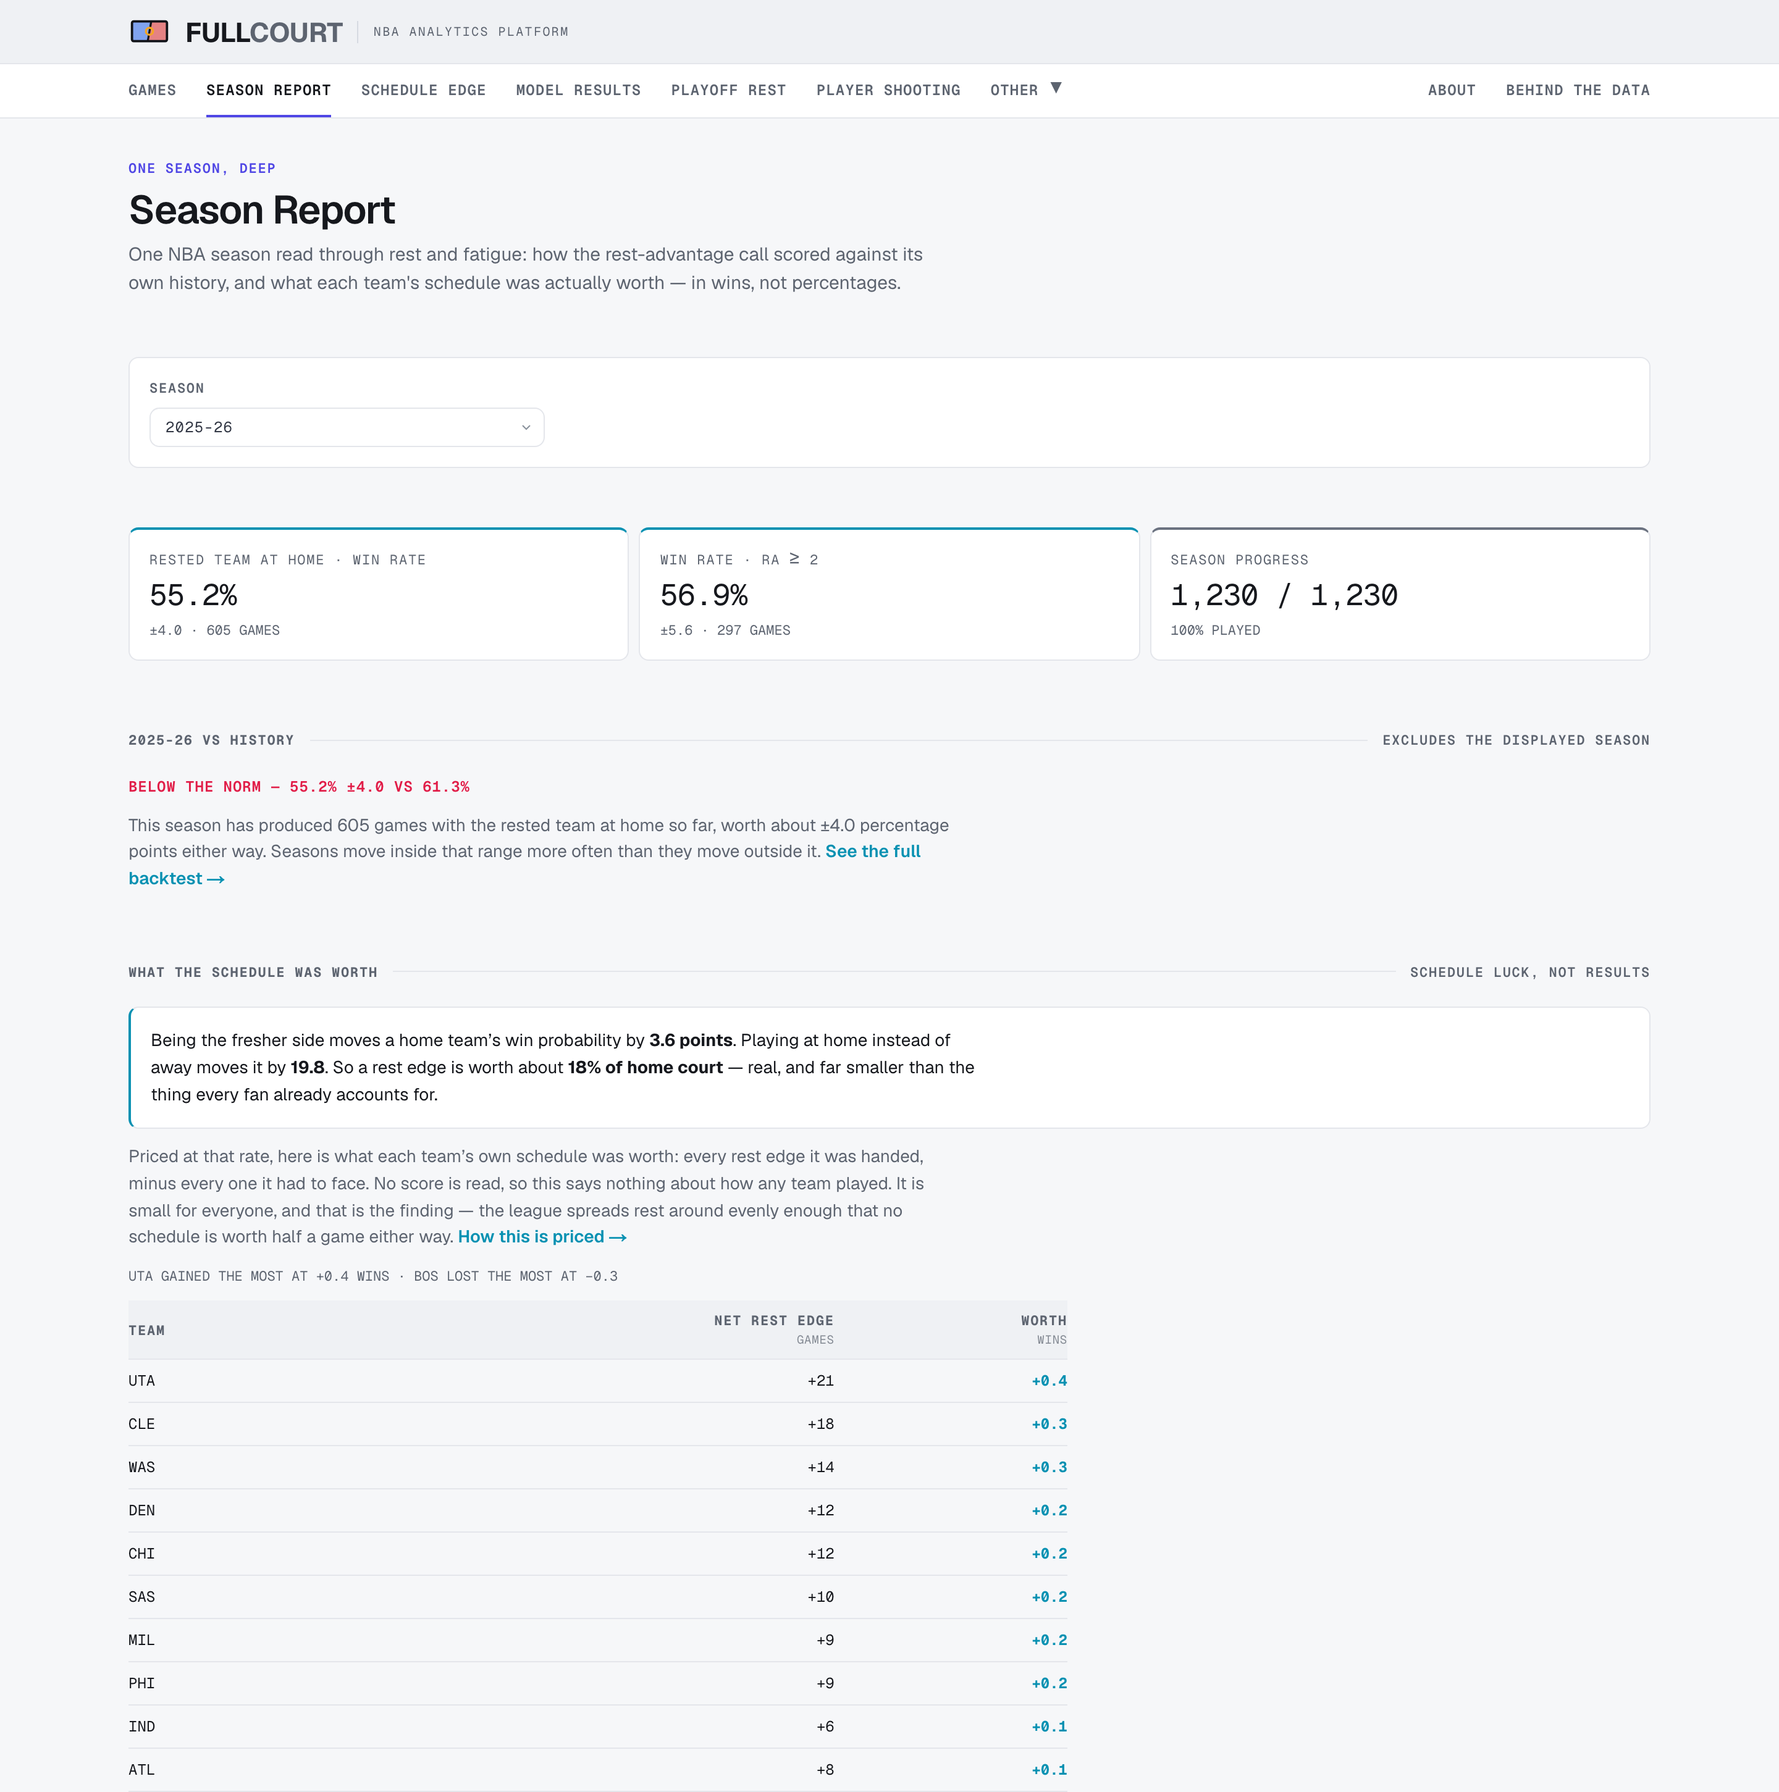
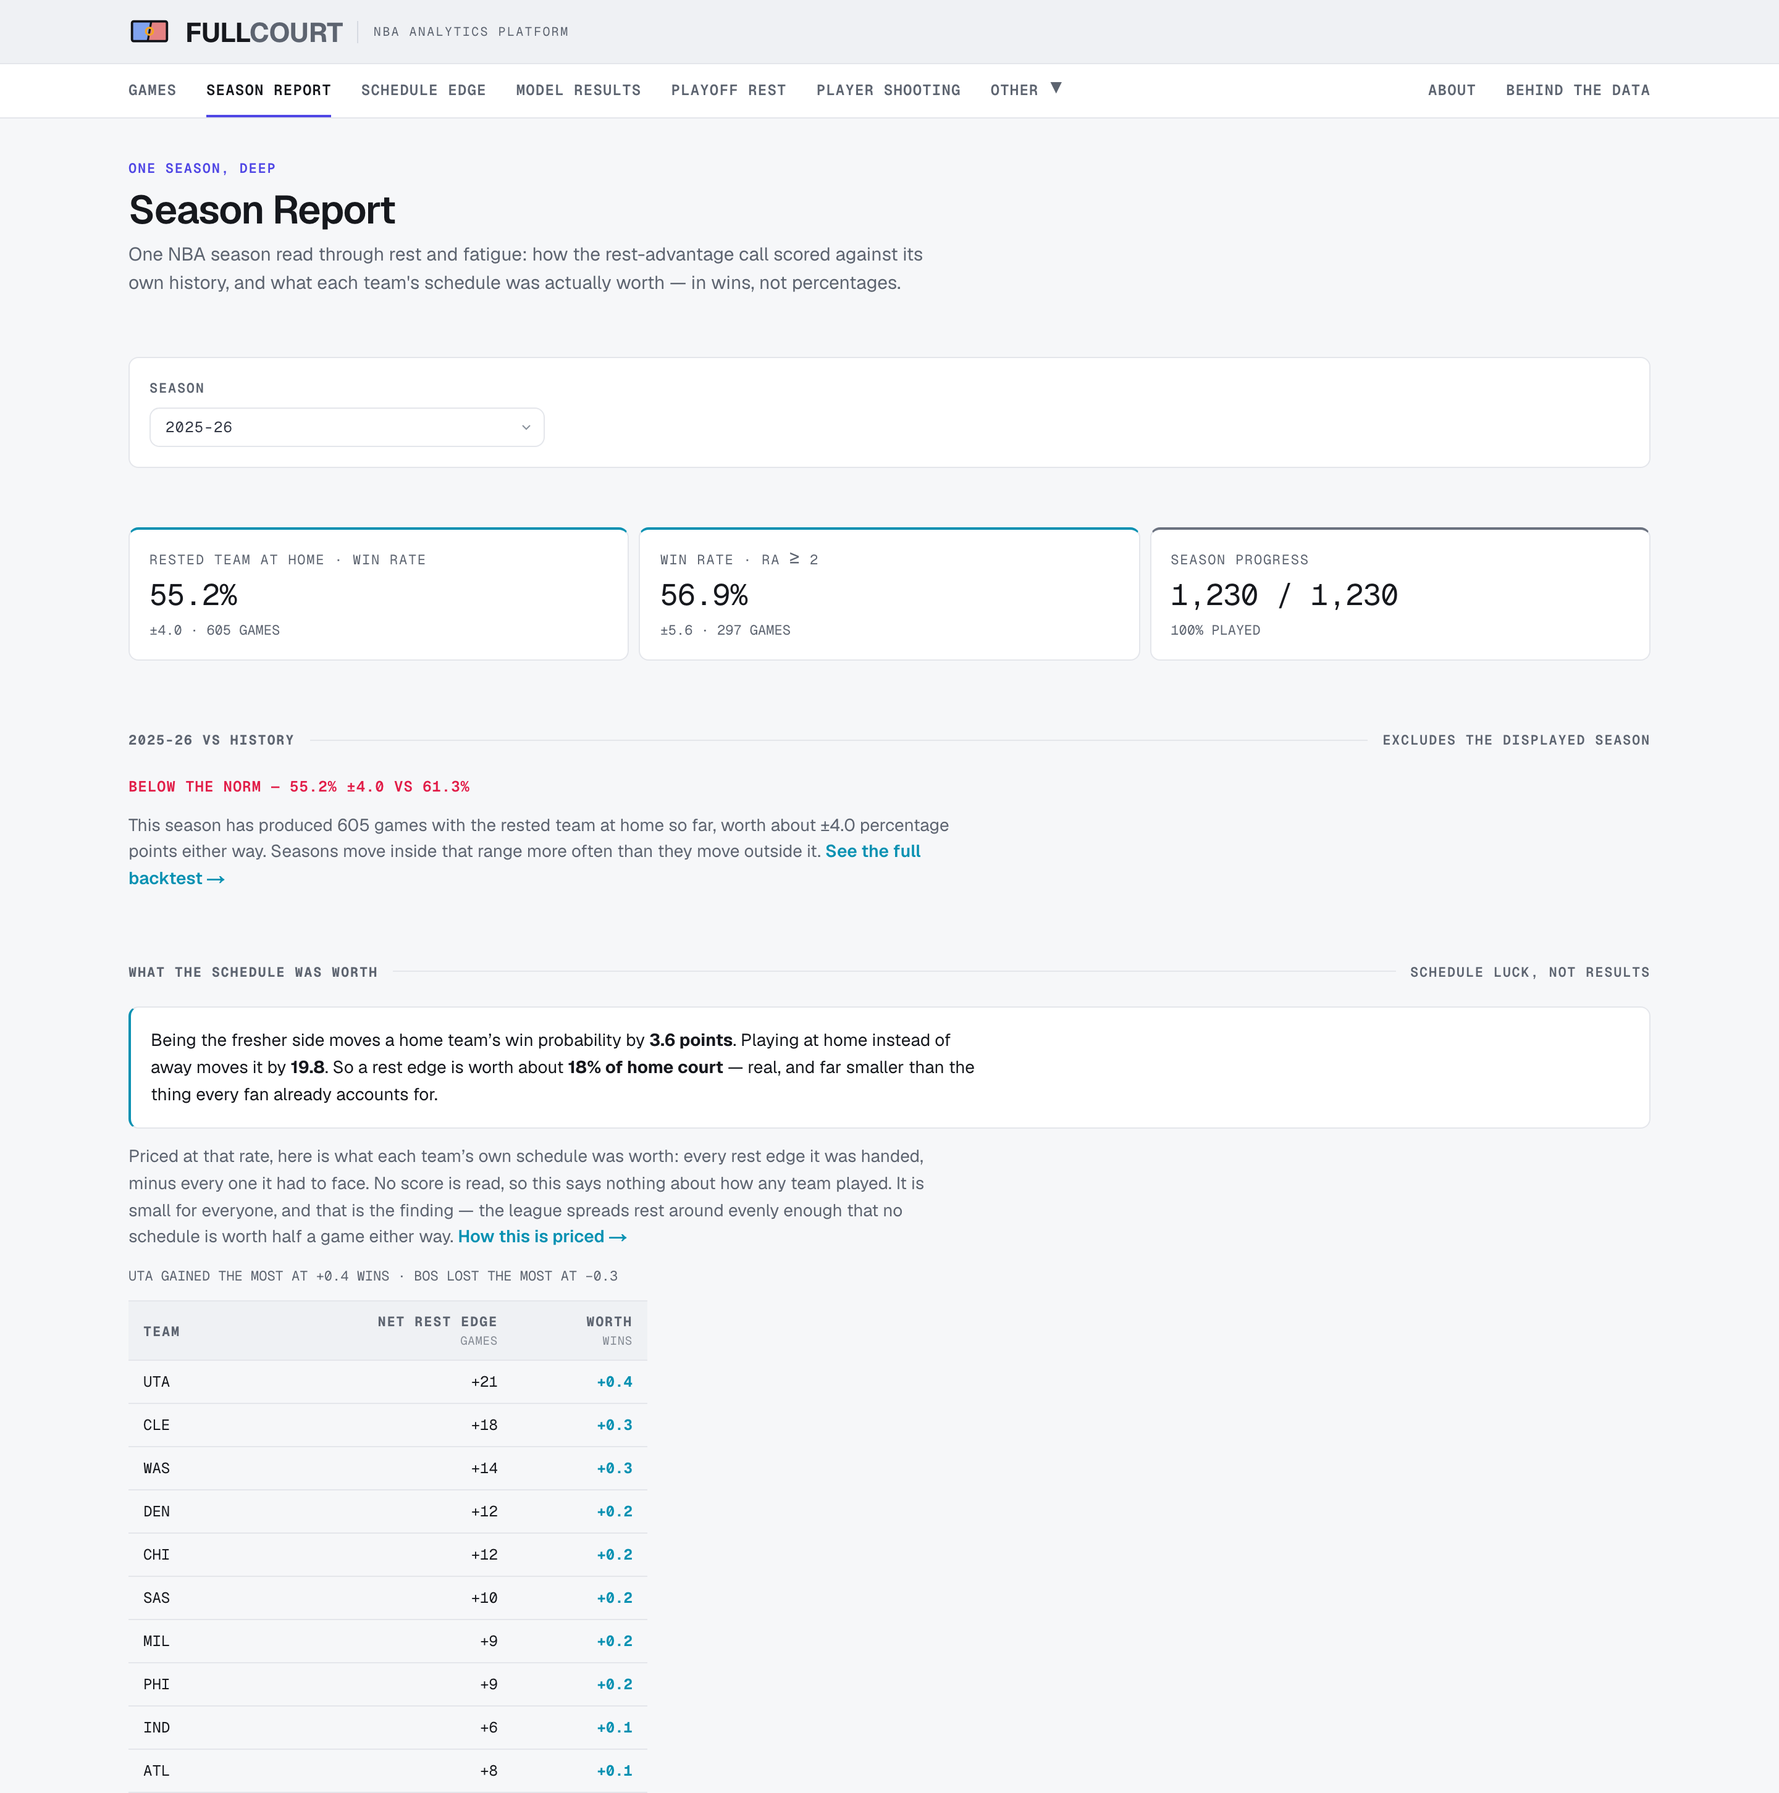
fix: give tables back their own inset, and stop stretching the narrow ones
Three changes to the same complaint — the season report's table was not readable.

Revert the edge-cells-pad-to-zero rule from earlier today. The idea was that a
table's first column should land on whatever rail its container sits on. That
was the wrong model of what a table is: `termThStyle` paints a `--term-surface-2`
header band and 20 of the app's 21 tables use it, so zeroing the inset put the
first column's text hard against a filled edge. Text touching a fill reads as
broken however exactly it lines up with the heading above. A table is a box —
the box sits on the page rail, its cells sit on the box's own inner rail. The
old rule applied the right law to the wrong element. 12 a side now, every cell.

Drop `w-full` from the four tables that also cap at TERM_NUMERIC_TABLE_MAX_WIDTH.
Together those mean "always exactly 760", which is not what a cap is for. The
season report's three-column WHAT THE SCHEDULE WAS WORTH proves it: its middle
column ran 390px wide to hold "+21", so the eye crossed 528px of nothing to get
from UTA to its own number. Measured after: 420px wide, columns 96/215/109, and
it reads as one scan. The eight-column table goes 760 → 596 and the five-column
760 → 520; both were stretched too.

Close every table at the top. The last row's own borderBottom is the bottom
edge, so the first header row takes a matching border-top — the band's tint was
doing that job alone, and a fill is not an edge.
[…]

diff --git a/e2e/alignment-law.spec.ts b/e2e/alignment-law.spec.ts
@@ -63,28 +63,65 @@ test.describe("The outer rail is one vertical line", () => {
   }
 });
 
-test.describe("A table's first column starts where its container does", () => {
+/**
+ * A table is a box, so its cells sit on the box's inner rail — every one of them, edges
+ * included. The edge cells padded to zero for part of 2026-08-11 so a first column would land
+ * on the page gutter; `termThStyle` paints the header band, so that put the column's text hard
+ * against a fill. This asserts the revert, and it discriminates: it compares the first cell to
+ * an interior one rather than pinning a literal, so the rule survives a change to the value.
+ */
+test.describe("A table's cells sit on one inset, edges included", () => {
   for (const route of ["/season", "/analysis", "/shooting", "/behind-the-data/rest-advantage"]) {
-    test(`first column takes no inset of its own on ${route}`, async ({ page }) => {
+    test(`no edge cell pads differently from its neighbours on ${route}`, async ({ page }) => {
       await page.setViewportSize({ width: 1440, height: 900 });
       await page.goto(route, { waitUntil: "networkidle" });
 
-      const offsets = await page.evaluate(() => {
-        const out: { pad: string; tag: string }[] = [];
+      const rows = await page.evaluate(() => {
+        const out: { first: string; interior: string; last: string; n: number }[] = [];
         for (const table of document.querySelectorAll("table.fc-table")) {
-          const first = table.querySelector("thead th:first-child, tbody td:first-child");
-          if (!first) continue;
-          out.push({ pad: getComputedStyle(first).paddingLeft, tag: first.tagName });
+          // The widest header row, so a table with grouped headers is measured on the row
+          // that actually has an interior cell to compare against.
+          const headRows = Array.from(table.querySelectorAll("thead tr"));
+          const head = headRows.sort((a, b) => b.children.length - a.children.length)[0];
+          const cells = head ? Array.from(head.children) : [];
+          if (cells.length < 3) continue;
+          out.push({
+            first: getComputedStyle(cells[0]).paddingLeft,
+            interior: getComputedStyle(cells[1]).paddingLeft,
+            last: getComputedStyle(cells[cells.length - 1]).paddingRight,
+            n: cells.length,
+          });
         }
         return out;
       });
 
-      expect(offsets.length, `${route} rendered no .fc-table`).toBeGreaterThan(0);
-      for (const { pad, tag } of offsets) {
-        expect(pad, `${route}: a <${tag}> first cell pads ${pad} instead of 0px`).toBe("0px");
+      expect(rows.length, `${route} rendered no .fc-table with 3+ columns`).toBeGreaterThan(0);
+      for (const { first, interior, last, n } of rows) {
+        expect(first, `${route}: a ${n}-column table's first cell pads ${first}, interior ${interior}`).toBe(interior);
+        expect(last, `${route}: a ${n}-column table's last cell pads ${last}, interior ${interior}`).toBe(interior);
+        expect(first, `${route}: cells pad to zero — the edge-to-zero rule was reverted`).not.toBe("0px");
       }
     });
   }
+});
+
+/**
+ * `TERM_NUMERIC_TABLE_MAX_WIDTH` is a ceiling, not a target. With `w-full` beside it a
+ * three-column table still took the full 760, which ran the season report's middle column to
+ * 390px to hold `+21` — 528px of nothing between a team and its own number.
+ */
+test("a few-column numeric table sizes to its content, not to the cap", async ({ page }) => {
+  await page.setViewportSize({ width: 1440, height: 900 });
+  await page.goto("/season", { waitUntil: "networkidle" });
+
+  const worth = page.locator('[data-testid="schedule-value-extremes"] ~ div table.fc-table').first();
+  await expect(worth).toBeVisible();
+
+  const box = await worth.boundingBox();
+  expect(box).not.toBeNull();
+  // Its own `minWidth` is 420 and the shared cap is 760. Landing at the cap means `w-full`
+  // came back; landing at the floor means the columns are sized by their content.
+  expect(box!.width, `the three-column table is ${box!.width}px wide`).toBeLessThan(560);
 });
 
 test("expanding a /shooting player does not shift its row sideways", async ({ page }) => {

diff --git a/src/app/globals.css b/src/app/globals.css
@@ -249,30 +249,35 @@
 }
 
 /* ── Tables ──────────────────────────────────────────────────────
-   Cell padding lives here rather than in `termThStyle` / `termTdStyle` because the edge cells
-   need different treatment from the interior ones, and a style object has no way to say
-   "first child".
+   Cell padding lives here rather than in `termThStyle` / `termTdStyle` so all 21 tables in the
+   app pad identically without 21 call sites having to agree.
 
-   THE EDGE CELLS PAD TO ZERO. That is the whole rule, and it is what makes a table line up
-   with whatever sits above it: the first column's text starts exactly at its container's
-   content edge, so it lands on the page gutter when the table sits on the page column, and on
-   the card's inner rail when the table sits in a card — without either context needing to know
-   about the other. Cells used to pad 10px all round, which put every table's first column 10px
-   inside the heading that introduced it, in every context at once.
+   EVERY CELL PADS THE SAME, EDGES INCLUDED. The edge cells padded to zero for part of
+   2026-08-11, on the theory that a table's first column should land on whatever rail its
+   container sits on — the page gutter on a bare page, a card's inner rail inside a card.
+   Reverted the same day. It was the wrong model of what a table is: `termThStyle` paints a
+   `--term-surface-2` header band, and 20 of the 21 tables use it, so zeroing the inset put the
+   first column's text hard against a filled edge. Text touching a fill reads as broken however
+   exactly it lines up with the heading above, and the season report's team column was the
+   proof.
 
-   Interior columns pad 12 a side. Enough to read two right-aligned numeric columns as separate
-   measures; not so much that a ten-column table has to scroll for its whitespace.            */
+   A table is a BOX, not page content. The box sits on the page rail; its cells sit on the
+   box's own inner rail. That is the same two-rail rule the rest of the app follows — the
+   earlier version applied it to the wrong element.
+
+   12 a side: enough to read two right-aligned numeric columns as separate measures, not so
+   much that a ten-column table has to scroll for its whitespace.                            */
 .fc-table th,
 .fc-table td {
   padding: 8px 12px;
 }
-.fc-table th:first-child,
-.fc-table td:first-child {
-  padding-left: 0;
-}
-.fc-table th:last-child,
-.fc-table td:last-child {
-  padding-right: 0;
+
+/* A closing rule at the bottom is the last row's own `borderBottom`, so the table needs a
+   matching one at the top or it reads as open-ended — the header band's tint was doing that
+   job alone, which is a fill, not an edge. First header row only: the wide tables stack two
+   header rows, and a rule under the group labels would cut the header in half.              */
+.fc-table thead tr:first-child th {
+  border-top: 1px solid var(--term-border);
 }
 
 /* ── Player rest database (/shooting) ────────────────────────────

diff --git a/src/components/season-report-content.tsx b/src/components/season-report-content.tsx
@@ -295,7 +295,7 @@ function EdgeConversion({
       </p>
       <SwingBaselineNote baseline={swingBaseline} />
       <div className="overflow-x-auto">
-        <table className="fc-table mono w-full" style={{ borderCollapse: "collapse", minWidth: 560, maxWidth: TERM_NUMERIC_TABLE_MAX_WIDTH }}>
+        <table className="fc-table mono" style={{ borderCollapse: "collapse", minWidth: 560, maxWidth: TERM_NUMERIC_TABLE_MAX_WIDTH }}>
           <thead>
             <tr>
               <th rowSpan={2} style={termThStyle}>TEAM</th>
@@ -420,7 +420,7 @@ function ScheduleValue({ teams }: { teams: SeasonReportTeamLabelled[] }) {
 
       <div className="overflow-x-auto">
         <table
-          className="fc-table mono w-full"
+          className="fc-table mono"
           style={{ borderCollapse: "collapse", minWidth: 420, maxWidth: TERM_NUMERIC_TABLE_MAX_WIDTH }}
         >
           <thead>
@@ -564,7 +564,7 @@ function ScheduleTax({ teams }: { teams: SeasonReportTeamLabelled[] }) {
         </p>
       ) : null}
       <div className="overflow-x-auto">
-        <table className="fc-table mono w-full" style={{ borderCollapse: "collapse", minWidth: 520, maxWidth: TERM_NUMERIC_TABLE_MAX_WIDTH }}>
+        <table className="fc-table mono" style={{ borderCollapse: "collapse", minWidth: 520, maxWidth: TERM_NUMERIC_TABLE_MAX_WIDTH }}>
           <thead>
             <tr>
               <th style={termThStyle}>TEAM</th>

diff --git a/src/lib/terminal-styles.ts b/src/lib/terminal-styles.ts
@@ -181,6 +181,13 @@ export const termTdStyle: CSSProperties = {
  * stranded a third of the screen away, which reads as an alignment fault rather than as a
  * table. Prose tables (the reference pages) are deliberately NOT capped — their note columns
  * use the width.
+ *
+ * A CEILING, NOT A TARGET. The four tables that use it dropped `w-full` on 2026-08-11, because
+ * `width: 100%` plus this cap means "always exactly 760" and a table with few columns does not
+ * need 760. The season report's three-column WHAT THE SCHEDULE WAS WORTH was the proof: its
+ * middle column ran 390px wide to hold `+21`, so the eye crossed 528px of nothing to get from
+ * `UTA` to its own number. Sized to content it lands near its `minWidth` floor instead and
+ * reads as one scan. Do not put `w-full` back on a table that also sets this.
  */
 export const TERM_NUMERIC_TABLE_MAX_WIDTH = WIDTH.numeric;
 

diff --git a/src/components/zero-rest-workload.tsx b/src/components/zero-rest-workload.tsx
@@ -94,7 +94,7 @@ export function ZeroRestWorkload({ season }: { season: string }) {
       ) : (
         <>
           <div className="overflow-x-auto">
-            <table className="fc-table mono w-full" style={{ borderCollapse: "collapse", minWidth: 460, maxWidth: TERM_NUMERIC_TABLE_MAX_WIDTH }}>
+            <table className="fc-table mono" style={{ borderCollapse: "collapse", minWidth: 460, maxWidth: TERM_NUMERIC_TABLE_MAX_WIDTH }}>
               <thead>
                 <tr>
                   <th style={termThStyle}>PLAYER</th>

diff --git a/docs/FRONTEND.md b/docs/FRONTEND.md
@@ -936,14 +936,33 @@ and no two pages' paragraphs ended in the same place.)*
 hierarchically inside another row — the expanded seasons under a player on `/shooting`. The
 nesting is the information there, so it has to be visible. Nothing else may take a third rail.
 
-**Tables take no inset of their own.** Cell padding lives in the `.fc-table` rule in
-`globals.css`, not in `termThStyle` / `termTdStyle`, because the edge cells have to pad to
-**zero** and a style object cannot say "first child". That is what lets a table line up with
-whatever introduces it: the first column starts at the page gutter when the table sits on the
-page column, and at the card's inner rail when it sits in a card, without either context knowing
-about the other. Interior columns pad 12 a side. **A `<table>` using those styles must carry
-`className="fc-table"`** — omitting it drops all cell padding, which is loudly visible rather
-than subtly wrong.
+**A table is a box, so it takes the inner rail like any other box.** Cell padding lives in the
+`.fc-table` rule in `globals.css`, not in `termThStyle` / `termTdStyle`, so all 21 tables pad
+identically without 21 call sites agreeing. **12 a side, every cell, edges included.**
+**A `<table>` using those styles must carry `className="fc-table"`** — omitting it drops all cell
+padding, which is loudly visible rather than subtly wrong.
+
+> The edge cells padded to **zero** for part of 2026-08-11, so a table's first column would land
+> on whatever rail its container sat on. **Reverted the same day.** `termThStyle` paints a
+> `--term-surface-2` header band and 20 of the 21 tables use it, so zeroing the inset put the
+> first column's text hard against a filled edge — which reads as broken however exactly it
+> lines up with the heading above. The box sits on the page rail; its cells sit on the box's own
+> inner rail. The earlier rule applied the two-rail model to the wrong element.
+> `alignment-law.spec.ts` asserts the first and last cells pad like their neighbours, comparing
+> rather than pinning a literal.
+
+**The numeric cap is a ceiling, not a target.** `TERM_NUMERIC_TABLE_MAX_WIDTH` (760) sets how
+wide a mostly-numbers table may *get*; a table must not also carry `w-full`, which turns the cap
+into a fixed width. The season report's three-column WHAT THE SCHEDULE WAS WORTH was the proof —
+at a forced 760 its middle column ran 390px wide to hold `+21`, so the eye crossed 528px of
+nothing between a team and its own number. Sized to content it lands at its 420px `minWidth`
+floor and reads as one scan. `minWidth` stays: it is the horizontal-scroll floor on a phone, not
+a target either.
+
+**Every table closes at the top as well as the bottom.** The last row's own `borderBottom` is the
+table's bottom edge, so `.fc-table thead tr:first-child th` takes a matching `border-top`. The
+header band's tint alone was doing that job, and a fill is not an edge. First header row only —
+the wide tables stack two, and a rule under the group labels would cut the header in half.
 
 **Recessed panels are bands, not boxes.** `termInsetStyle` is a background plus rules top and
 bottom, with no side padding, so it bleeds to its container's content edge and its text stays on
